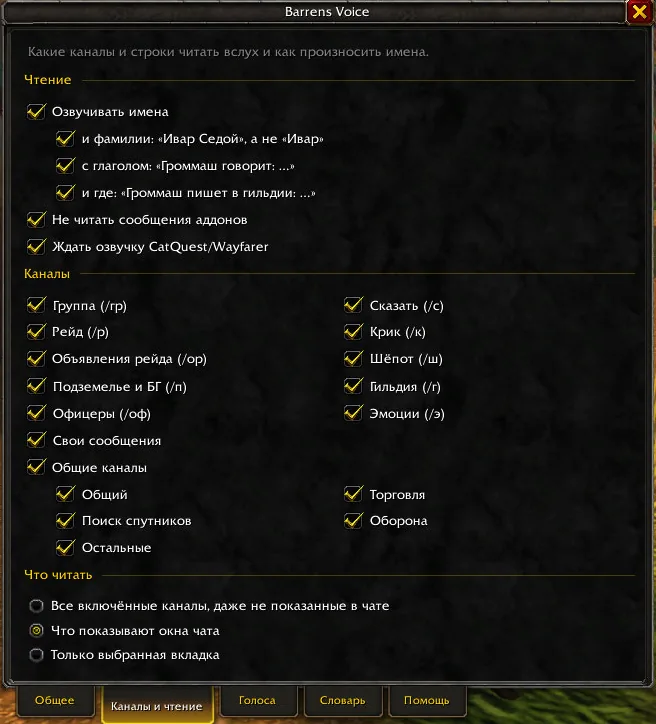
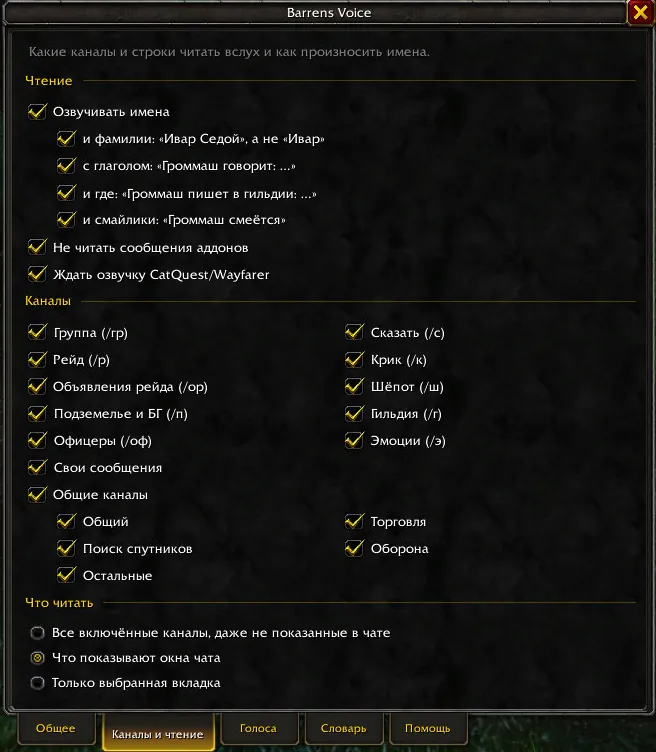
README and the sites' description: the «Каналы и чтение» screenshot with the «и смайлики» checkbox

diff --git a/README.md b/README.md
@@ -87,7 +87,7 @@
 
 ### Каналы и чтение
 
-<p align="center"><img src="docs/images/addon-channels.webp" alt="Вкладка «Каналы и чтение»: имена, каналы и что читать"></p>
+<p align="center"><img src="docs/images/addon-channels.webp" alt="Вкладка «Каналы и чтение»: имена и смайлики, каналы и что читать"></p>
 
 - **Озвучивать имена** — «Громмаш говорит: …». Если в строке только вопросы — «Громмаш спрашивает: …». Несколько строк подряд от одного игрока звучат как одна речь, с именем только в начале.
 

diff --git a/docs/addon-sites-description.md b/docs/addon-sites-description.md
@@ -97,7 +97,7 @@ Russian is the only language so far: if you would like it in yours, help is welc
 
 ### Каналы и чтение
 
-<p align="center"><img src="https://raw.githubusercontent.com/rgeraskin/barrens-voice/master/docs/images/addon-channels.webp" alt="Вкладка «Каналы и чтение»: имена, каналы и что читать"></p>
+<p align="center"><img src="https://raw.githubusercontent.com/rgeraskin/barrens-voice/master/docs/images/addon-channels.webp" alt="Вкладка «Каналы и чтение»: имена и смайлики, каналы и что читать"></p>
 
 - **Озвучивать имена** — описание опций говорит само за себя.
 
